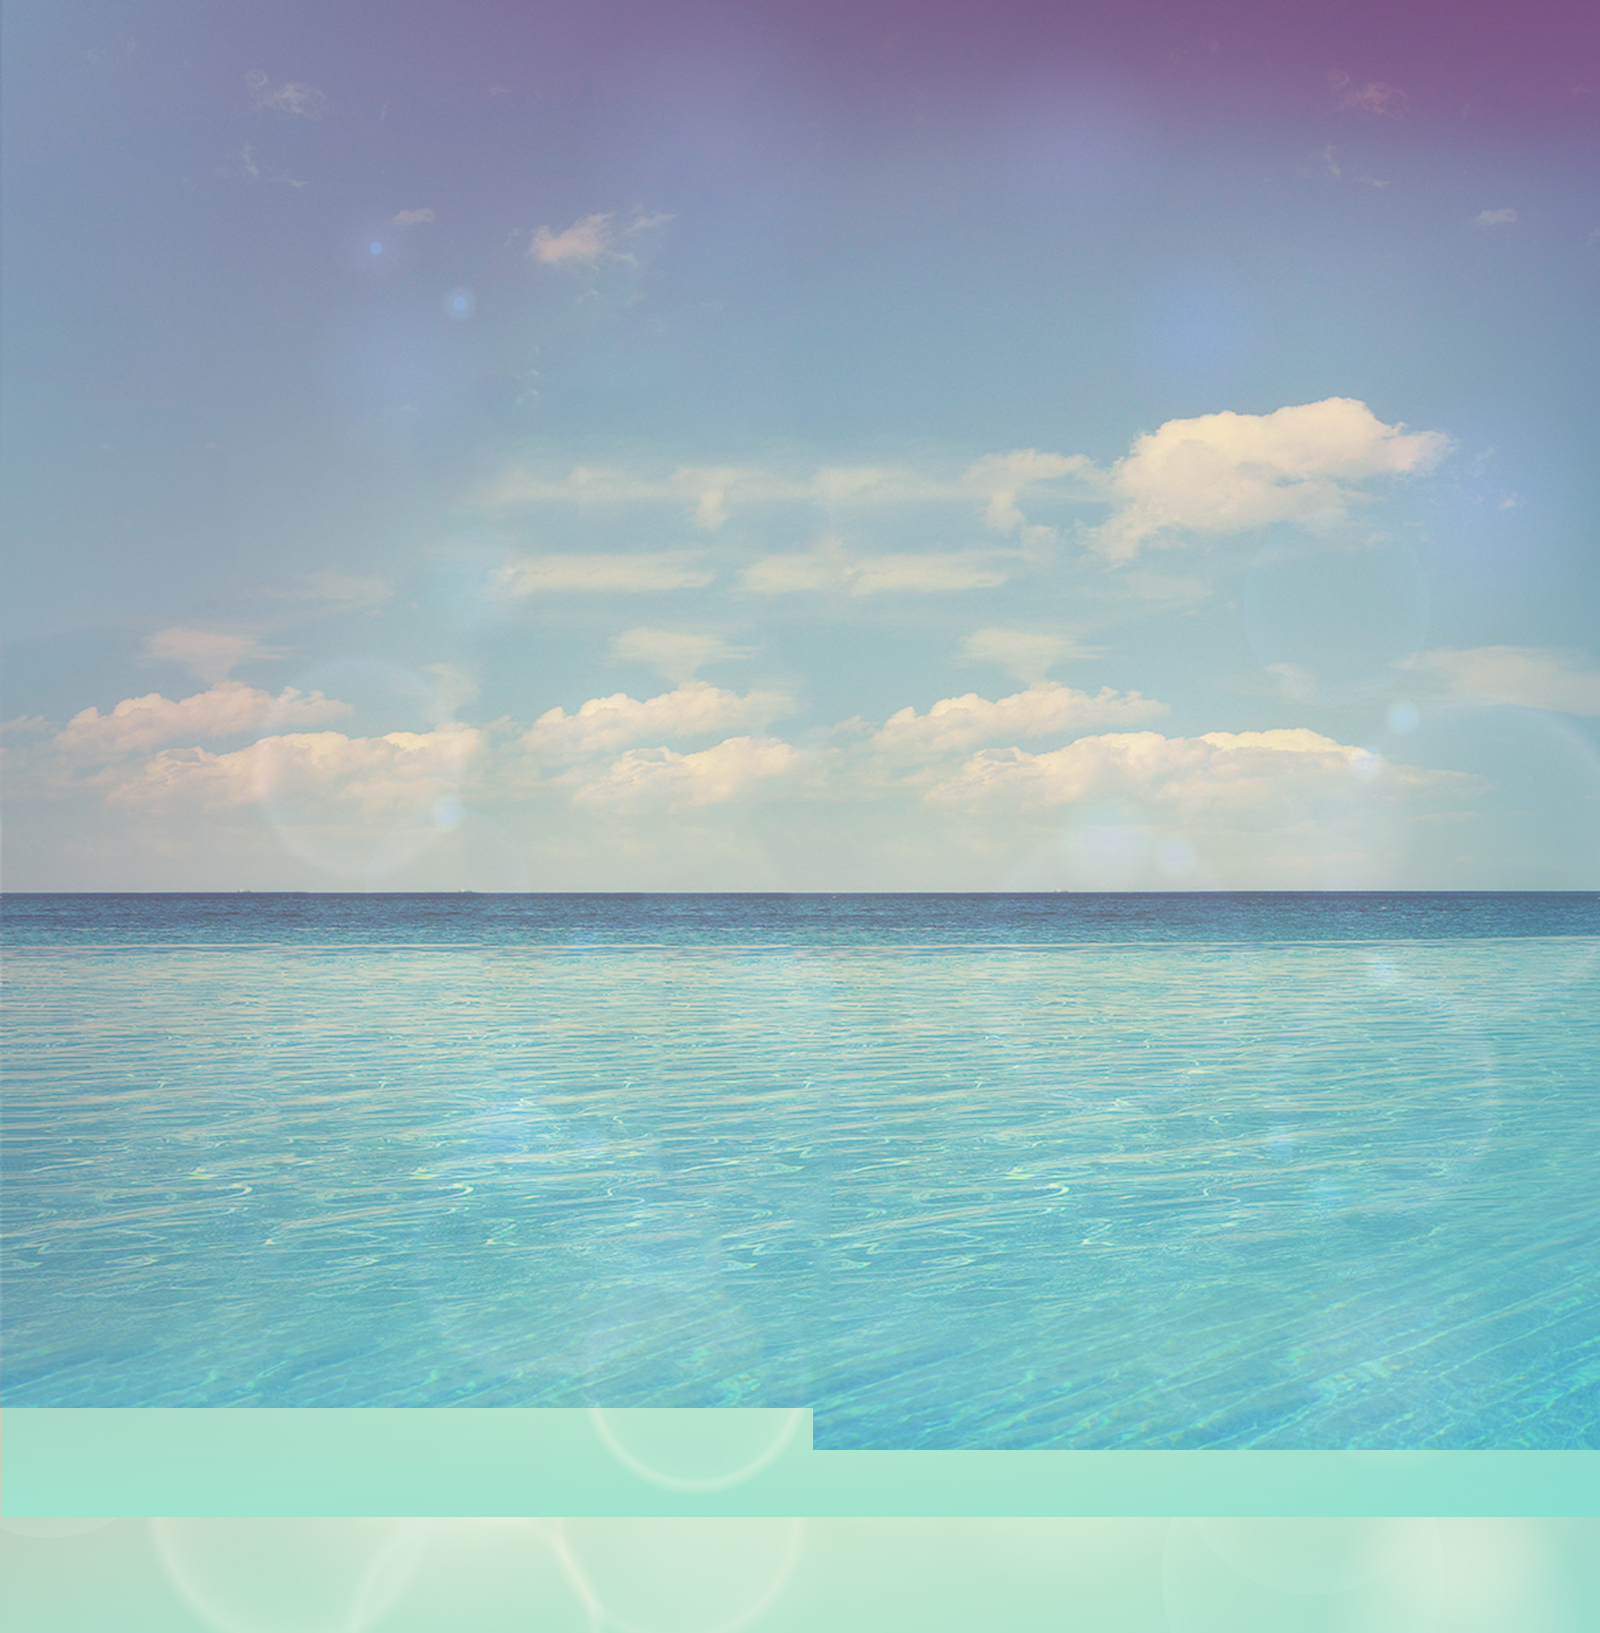
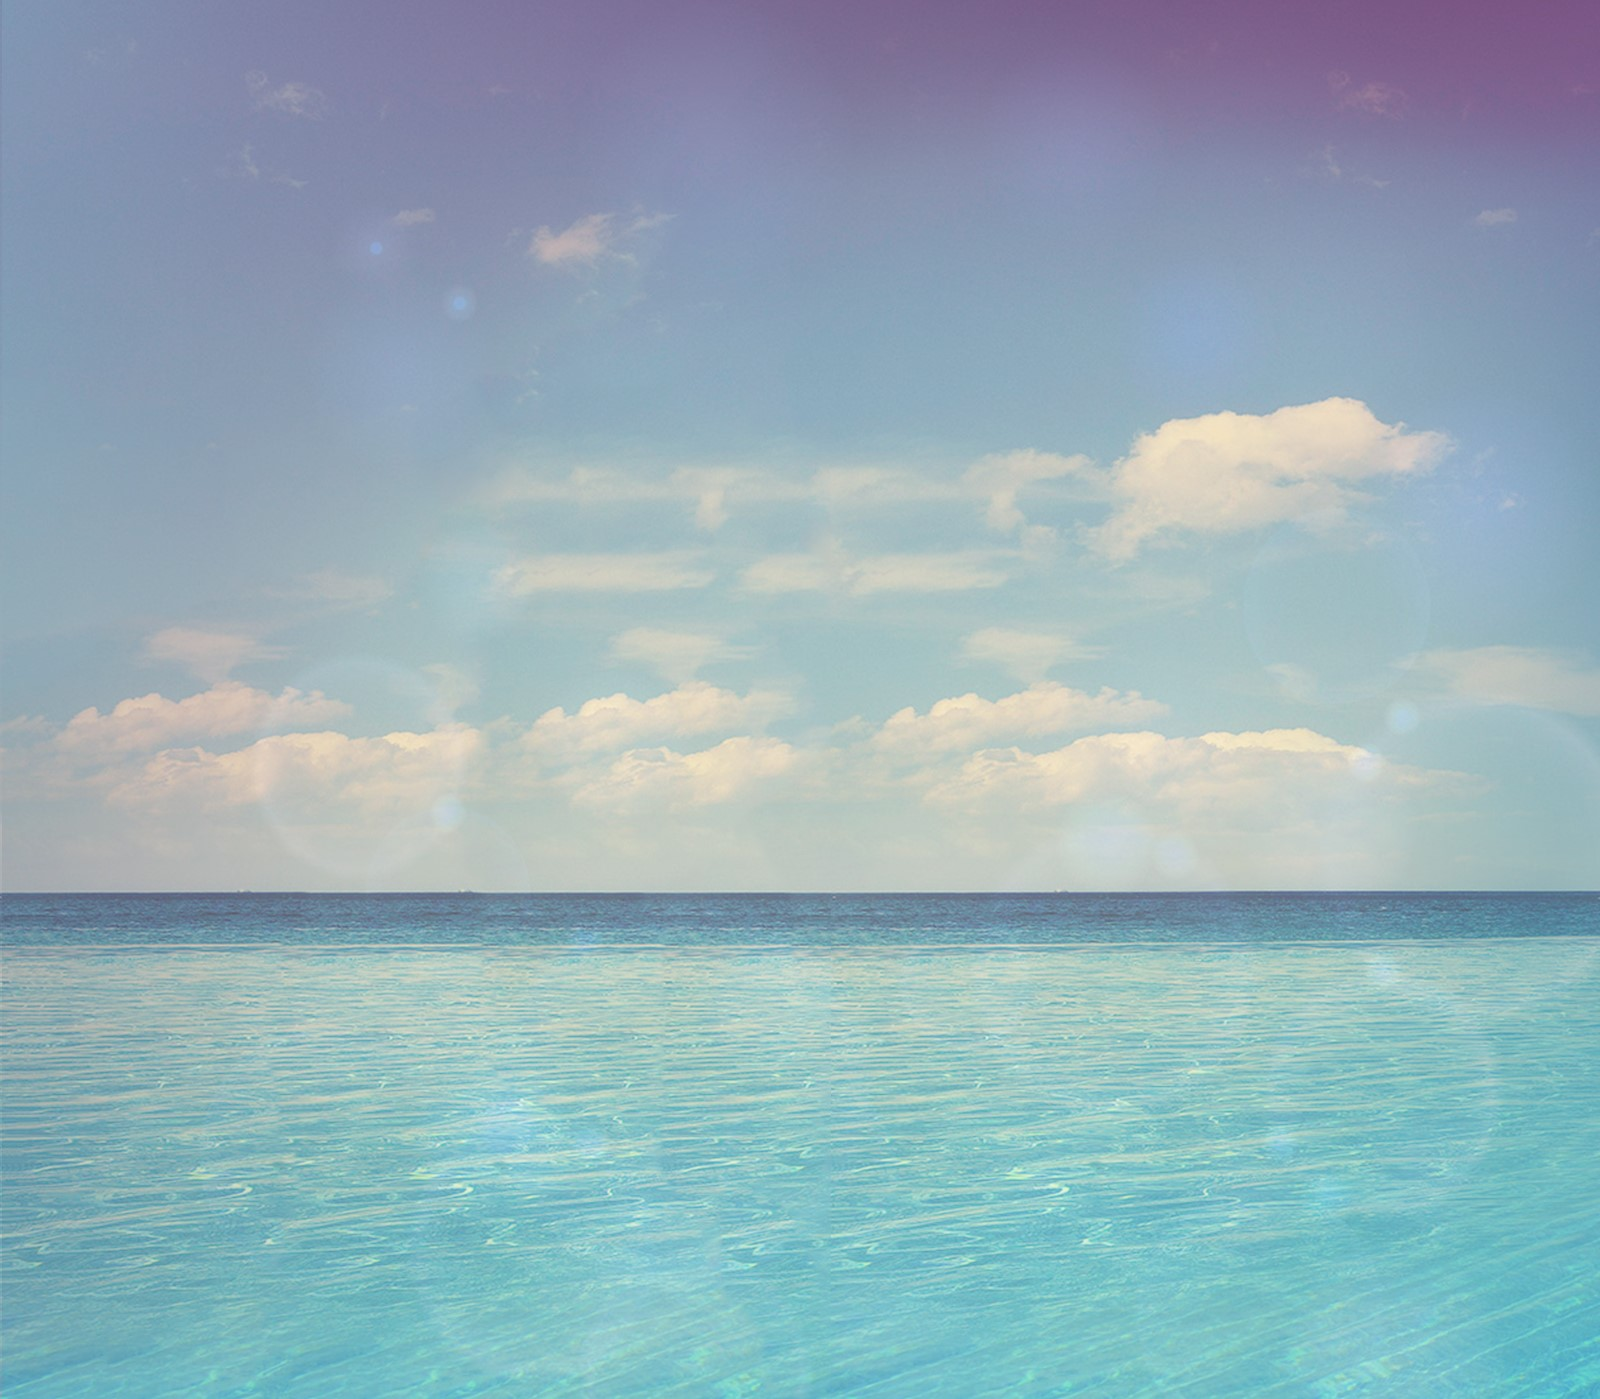
Commit 5

diff --git a/styleTest.css b/styleTest.css
@@ -2,7 +2,10 @@
 body {
   background-color:white;
   background-image:url(Images/background.jpg);
+  background-repeat: no-repeat;
+  min-width: 520px;
 }
+
 /* FONT */
 @font-face {
   font-family: "TrashHand";
@@ -14,19 +17,19 @@ body {
   src: url('BEBAS.TTF')format("truetype");
 } 
 
-/* Customize container */
+/* Container */
 .container {
   max-width: 900px;
   padding-bottom: 50px;
   height: auto;
 }
 
-/* Custom page header */
+/* Header */
 .header {
   padding-bottom: 100px;
 }
 
-/*Col 1*/
+/* Header: Col 1*/
 .header p {
   font-size: 8px;
   color: #ffffff;
@@ -38,7 +41,7 @@ body {
   float:left;
 }
 
-/*Col 2*/
+/* Header: Col 2*/
 #col2 li a{
   padding-top: 5px;
   padding-bottom: 5px;
@@ -105,7 +108,7 @@ body {
   text-decoration: none;
 }
 
-/* Carousel */
+/* Slider */
 #left{
     height: 390px;
     position: absolute;
@@ -133,32 +136,32 @@ body {
     left: 335px;
 }
 
-
 /* Contenido*/
 
 .col-md-6{
   max-height: 650px;
 }
 
- .Contenido {
+.Contenido {
   padding-top: 15px;
   padding-bottom: 15px;
- }
-
-  .Contenido img{
-  max-width: 405px;
- }
-
- .Contenido figcaption{
-  position: relative;
-  text-align: center;}
-
-  #deco {
-    position: absolute;
-    left: 15px;
-    top: 20px;
 }
-  /* Text*/
+
+.Contenido img{
+  max-width: 405px;
+}
+
+.Contenido figcaption{
+  position: relative;
+  text-align: center;
+}
+
+#deco {
+  position: absolute;
+  left: 15px;
+  top: 20px;
+}
+  /* Contenido: Text*/
 #top1{
   bottom: 70px;
   font-size: 20px;
@@ -202,18 +205,15 @@ body {
   margin-left: 20px;
   float: left;
 }
-  /*Images*/
-  height: 150px;
-  background-color: #ffffff;
-}
+  /*Contenido: Images*/
  #imgbot1{
-    position: relative;
-    bottom: 35px;
+  position: relative;
+  bottom: 35px;
  }
 
  #imgbot2{
-    position: relative;
-    bottom: 12px;
+  position: relative;
+  bottom: 12px;
  }
 
 /* Footer */
@@ -221,10 +221,16 @@ body {
   padding-top: 5px;
   text-align: center;
   color: #777;
+  width: 100%;
+  height: 150px;
+  background-color: #ffffff;
+}
 
 .footer img{
-  max-width: 900px;
+  width: 800px;
+  height: auto;
 }
+
 
 /* Responsive */
 
@@ -233,11 +239,12 @@ body {
     display: none;}
 }
 
- @media screen and (max-width:995px) {
+@media screen and (max-width:995px) {
   .Contenido {
     align-items: center;
     text-align: center;
   }
+
   #deco, #logo,#left,#right,#partag {
     display: none;
   }
@@ -245,7 +252,7 @@ body {
   #bot2{
     float: none;
     right: 90px;
-    }
+  }
 
   #titre{
     width: 80%;
@@ -261,7 +268,7 @@ body {
 }
 
 @media screen and (max-width:770px) {
-  .footer p + {
+  .footer p{
     display: none;
   }
 
